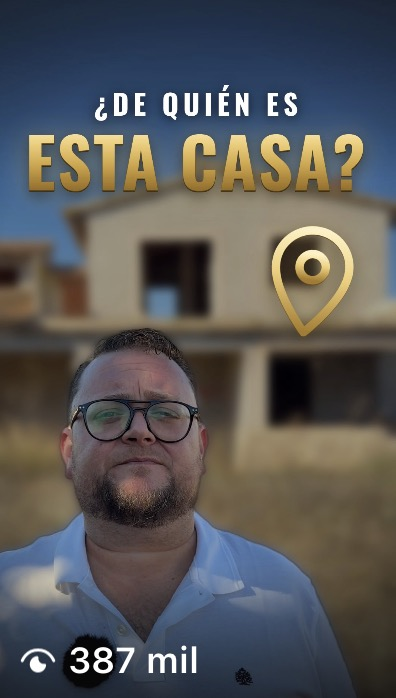
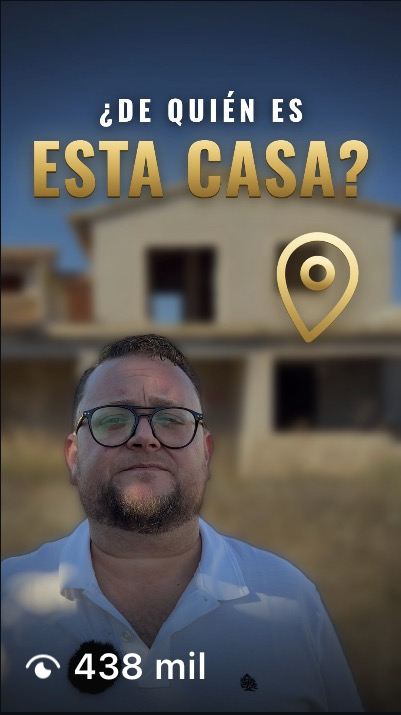
Caso Javier Núñez: cifras del 3 de noviembre de 2026
Capturas nuevas: "¿De quién es esta casa?" (438 mil, 2.489 seguidores nuevos)
y "¿Dónde comprar pisos baratos?" (244 mil, 2.083 seguidores nuevos). Entre
los dos, más de 683 mil visitas y más de 558 mil personas; la cuenta tiene
4.448 seguidores.

- Web: titular "2 vídeos: +4.400 seguidores nuevos", cifras y estadísticas
  del caso, muro de resultados, banda (2.489 con un solo vídeo) y su perfil
  en las cuentas, que sube de sitio por seguidores.
- Historias: caso, estadísticas, visitas, cuentas y servicios.
- Pruebas: cifras nuevas obligatorias y las anteriores prohibidas.

Claude-Session: https://claude.ai/code/session_01Btve4cd4RAxt1xTwi1btsU

diff --git a/README.md b/README.md
@@ -409,12 +409,12 @@ la página publicada). Búscalos con `grep -rn "PENDIENTE\|REVISAR" src docs .en
   identificadores publicitarios en el navegador sin permiso no lo admite la
   LSSI. Como el formulario está en la misma página, los eventos llevan los
   mismos datos. Con consentimiento se guardan en sessionStorage como antes.
-- **Caso Exoneris actualizado** con las capturas de principios de noviembre de
-  2026: sus dos reels suman más de 591 mil visitas y más de 488 mil personas los
-  vieron ("¿Dónde comprar pisos baratos?", 204 mil y 1.626 seguidores nuevos;
-  "¿De quién es esta casa?", 387 mil y 2.005 seguidores nuevos), y la cuenta
-  tiene 3.544 seguidores. El titular dice "+3.500 seguidores nuevos" aunque las
-  estadísticas suman 3.631, para no pasar de lo que se ve en el perfil.
+- **Caso Exoneris actualizado** con las capturas del 3 de noviembre de 2026: sus
+  dos reels suman más de 683 mil visitas y más de 558 mil personas los vieron
+  ("¿Dónde comprar pisos baratos?", 244 mil y 2.083 seguidores nuevos; "¿De quién
+  es esta casa?", 438 mil y 2.489 seguidores nuevos), y la cuenta tiene 4.448
+  seguidores. El titular dice "+4.400 seguidores nuevos" aunque las estadísticas
+  suman 4.572, para no pasar de lo que se ve en el perfil.
 - **Perfil del formulario:** acepta @usuario, usuario o una URL de Instagram,
   TikTok o web. Si alguien escribe otra cosa (por ejemplo, el nombre del
   negocio o "no tengo"), se guarda tal cual en lugar de bloquear el envío.
